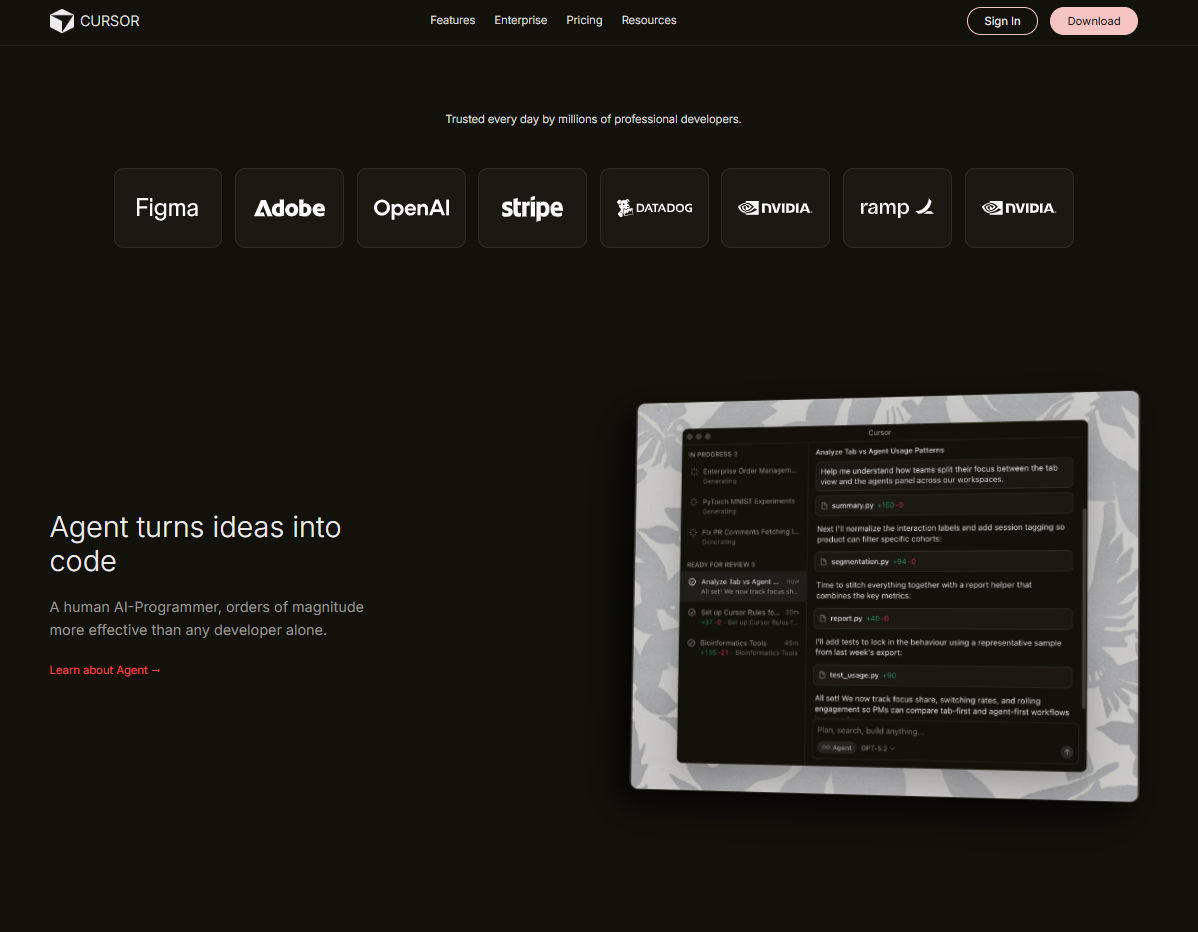
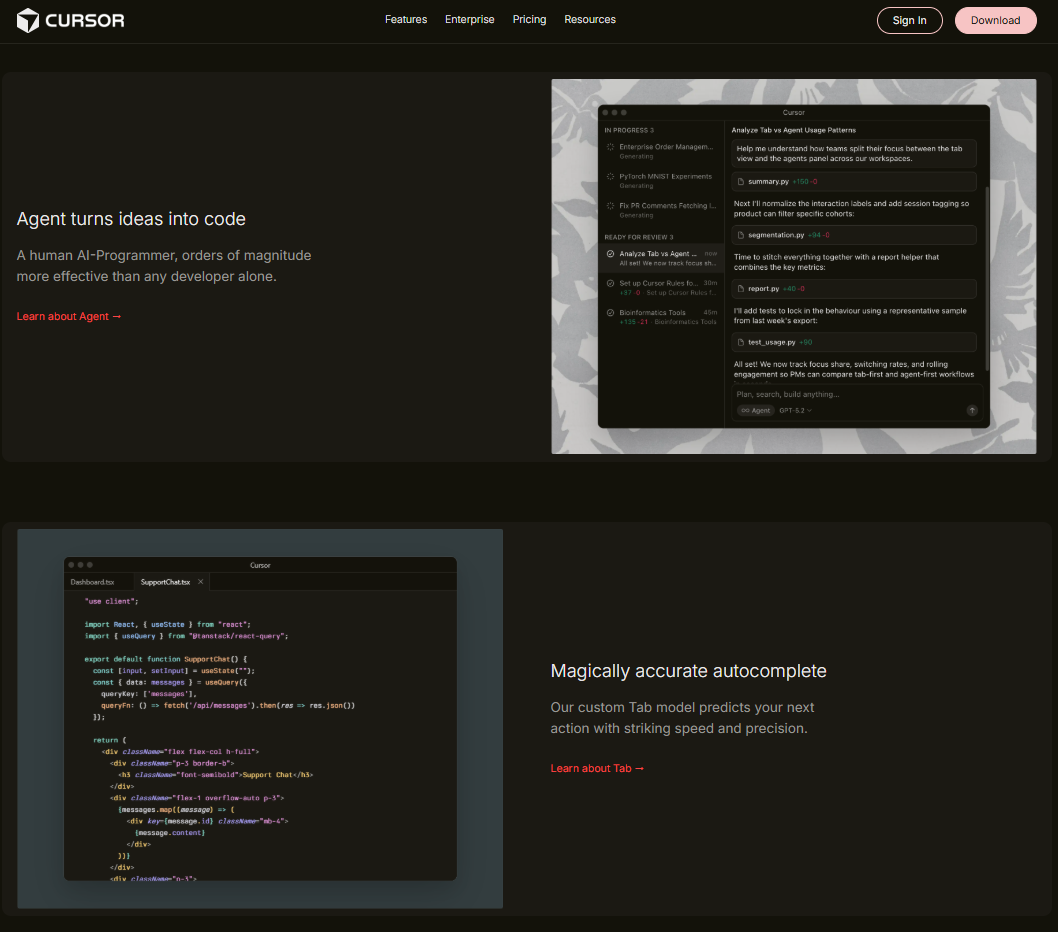
Update structure and styling

diff --git a/style.css b/style.css
@@ -207,9 +207,14 @@ a {
     gap: 0.5rem;
 }
 
-.nav-logo img {
+/* .nav-logo img {
     width: 30px;
     height: 30px;
+} */
+
+.logo-text-image {
+    height: 20px;
+    width: auto;
 }
 
 .logo-text {
@@ -340,14 +345,18 @@ a {
     filter: brightness(1.1);
 }
 
-/* FEATURE SECTIONS */
-
 .feature {
-    padding: 120px 0;
-    background-color: #13120A;
-    margin: 0;
+    padding: 10px 0;
+    background-color: #1B1913;
+    margin: 80px auto;
     position: relative;
     overflow: visible;
+    width: fit-content;
+    border-radius: 12px;
+}
+
+.feature:first-of-type {
+    margin-top: 0;
 }
 
 .feature-grid {
@@ -362,7 +371,7 @@ a {
 }
 
 .feature-title {
-    font-size: 36px;
+    font-size: 24px;
     font-weight: 300;
     margin-bottom: 20px;
     color: var(--color-text-primary);
@@ -384,54 +393,22 @@ a {
     justify-content: flex-end;
 }
 
-.feature-media img {
+.feature-mockup {
     width: 100%;
     max-width: 900px;
-    height: auto;
-    border-radius: 12px;
     transform: rotateY(-12deg) rotateX(3deg);
     transform-style: preserve-3d;
     box-shadow: 
         -20px 20px 60px rgba(0, 0, 0, 0.6),
         -10px 10px 30px rgba(0, 0, 0, 0.4);
-    border: 1px solid rgba(255, 255, 255, 0.1);
     transition: transform 0.6s ease, box-shadow 0.6s ease;
 }
 
-.feature-media img:hover {
+.feature-mockup:hover {
     transform: rotateY(-8deg) rotateX(2deg) scale(1.02);
     box-shadow: 
         -30px 30px 80px rgba(0, 0, 0, 0.7),
         -15px 15px 40px rgba(0, 0, 0, 0.5);
-}
-
-/* Feature Right (Reversed Layout) */
-.feature-right .feature-grid {
-    grid-template-columns: 70% 30%;
-}
-
-.feature-right .feature-content {
-    order: 2;
-    justify-self: end;
-}
-
-.feature-right .feature-media {
-    order: 1;
-    justify-content: flex-start;
-}
-
-.feature-right .feature-media img {
-    transform: rotateY(12deg) rotateX(3deg);
-    box-shadow: 
-        20px 20px 60px rgba(0, 0, 0, 0.6),
-        10px 10px 30px rgba(0, 0, 0, 0.4);
-}
-
-.feature-right .feature-media img:hover {
-    transform: rotateY(8deg) rotateX(2deg) scale(1.02);
-    box-shadow: 
-        30px 30px 80px rgba(0, 0, 0, 0.7),
-        15px 15px 40px rgba(0, 0, 0, 0.5);
 }
 
 /* Responsive */

diff --git a/index.html b/index.html
@@ -17,7 +17,7 @@
         <div class="nav-container">
             <div class="nav-logo">
                 <img src="assets/CUBE_2D_DARK.png" alt="Cursor logo" width="30" height="30">
-                <span class="logo-text">CURSOR</span>
+                <img src="assets/Cursor_Logo_1.png" alt="Cursor" class="logo-text-image" >
             </div>
             
             <div class="nav-links">
